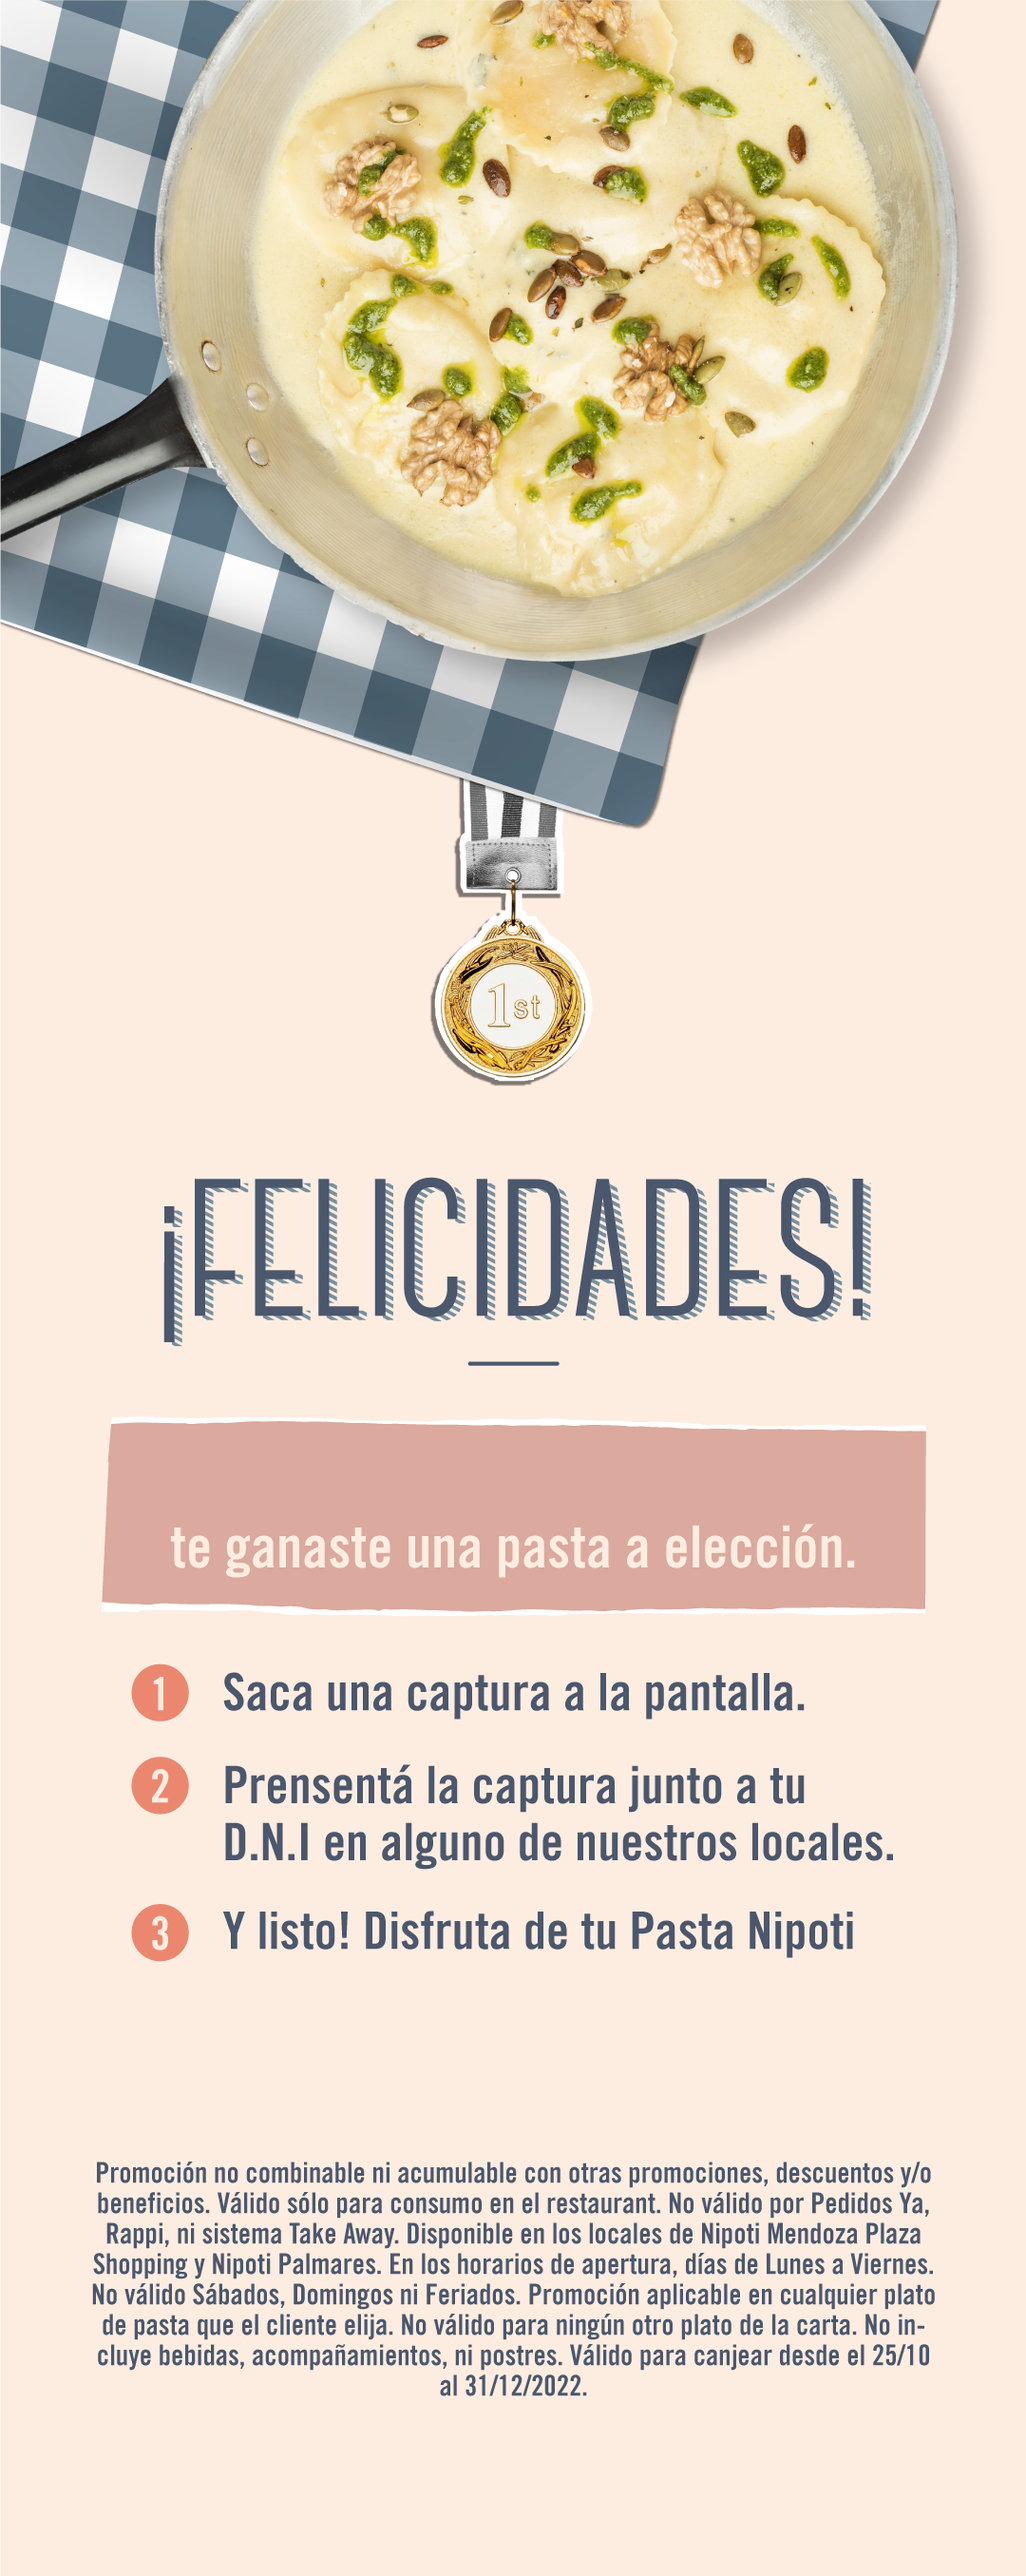
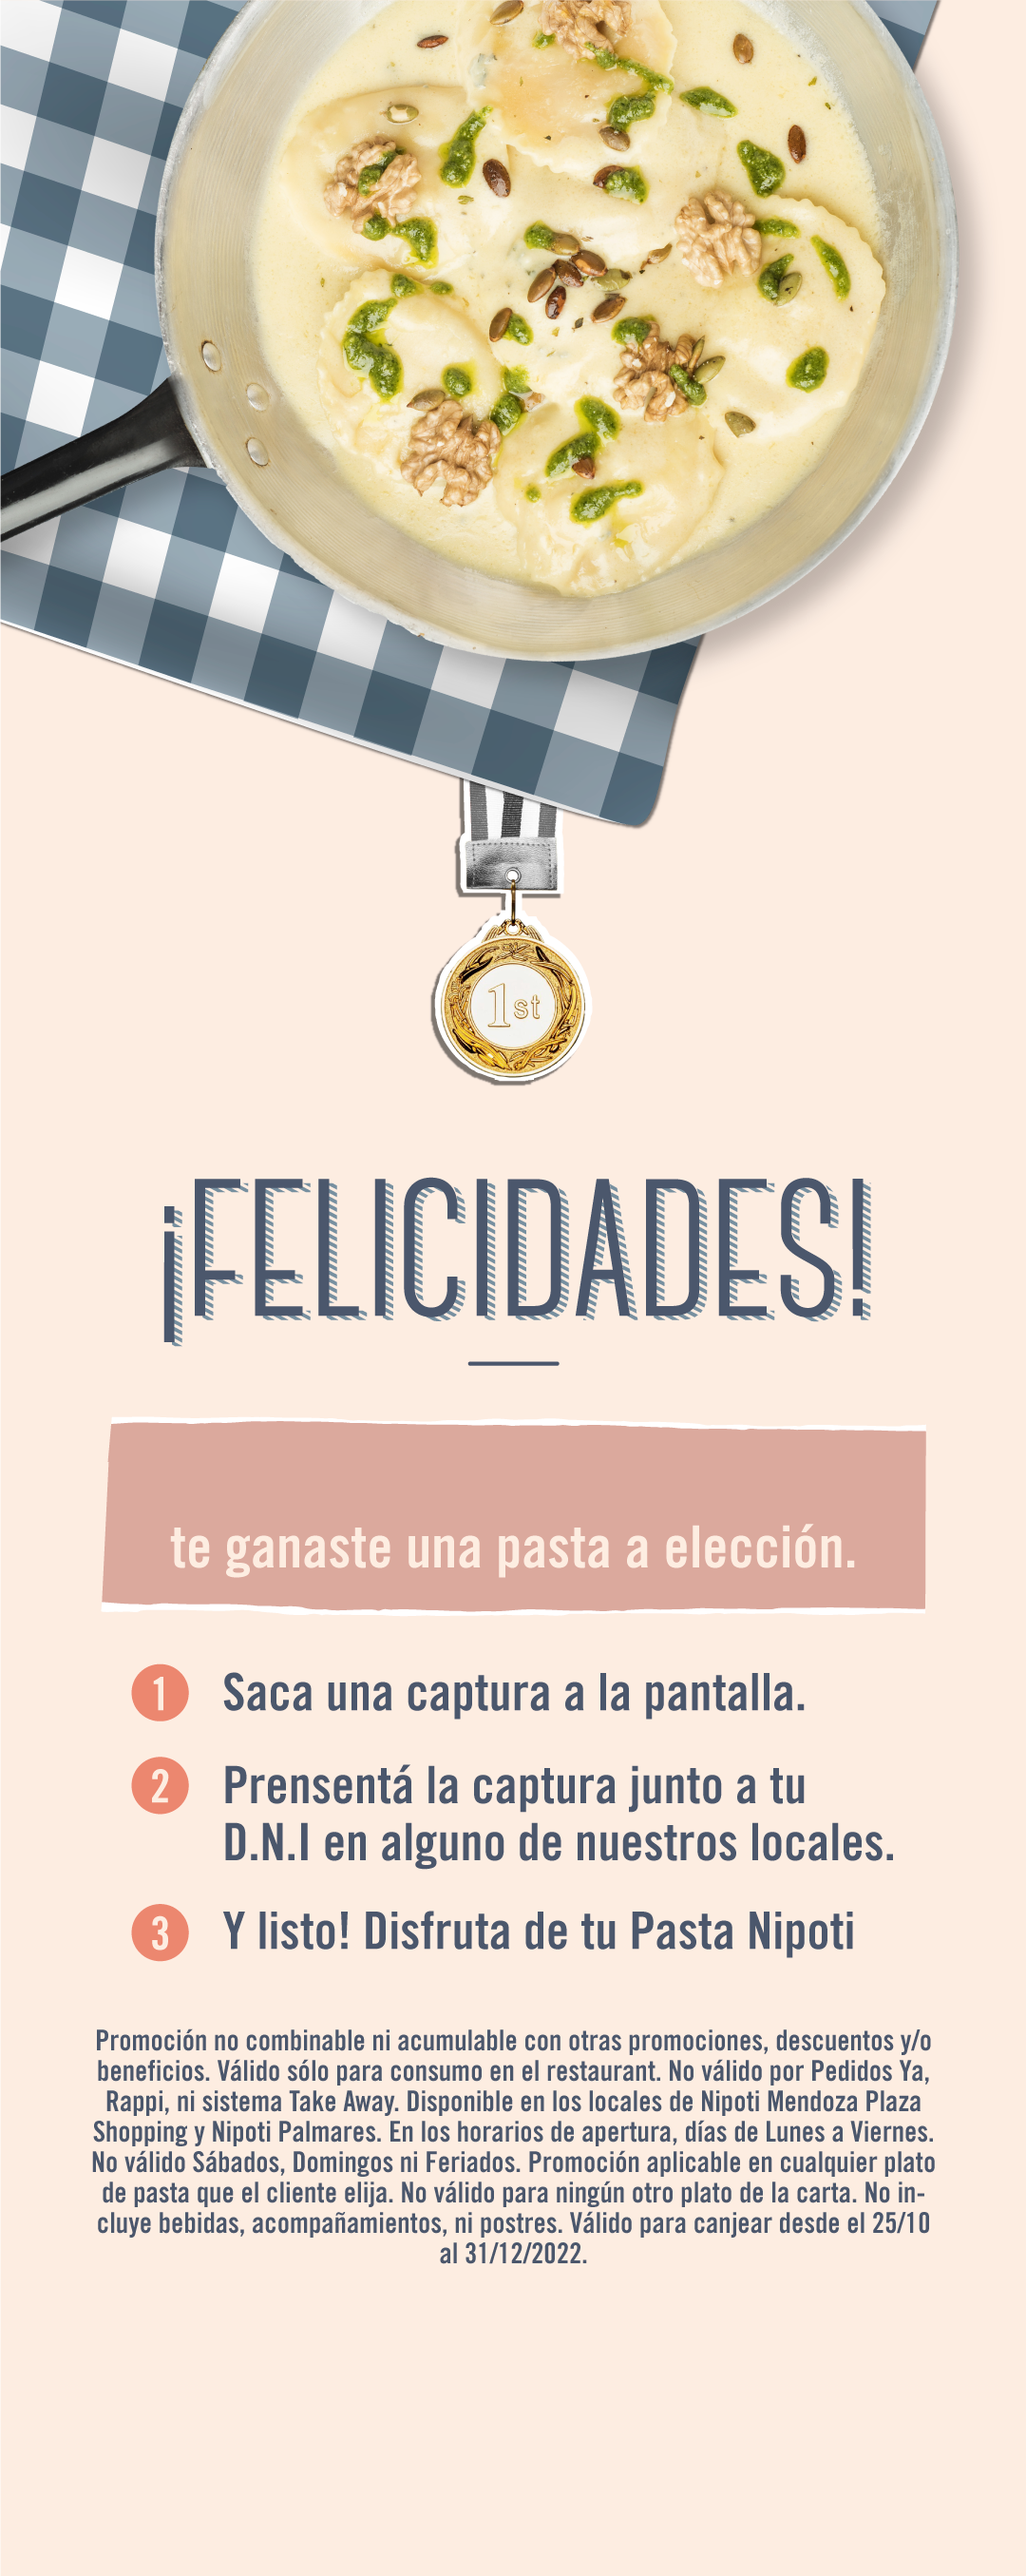
Estilo y edicion terminada, solo falta la logica

Changed region(s): [[0.0917, 0.7749, 0.9167, 0.9299]]

diff --git a/styles/styleWinner.css b/styles/styleWinner.css
@@ -28,10 +28,8 @@ footer {
     position: fixed;
     left: 0;
     bottom: 0;
-
     height: 74px;
     width: 100%;
-
     display: flex;
     justify-content: center;
     align-items: flex-start;
@@ -55,11 +53,11 @@ footer {
     width: auto;
 }
 @media (max-width: 800px){
-body{
+    body{
         background-image: url(../img/winner-mobileFinal.png);
-    }
-.footer{
-        width: 100%;
-        height:60px ;
-    }
+        }
+    footer{
+    width: 100%;
+    margin-top: 20px;
+        }
 }
